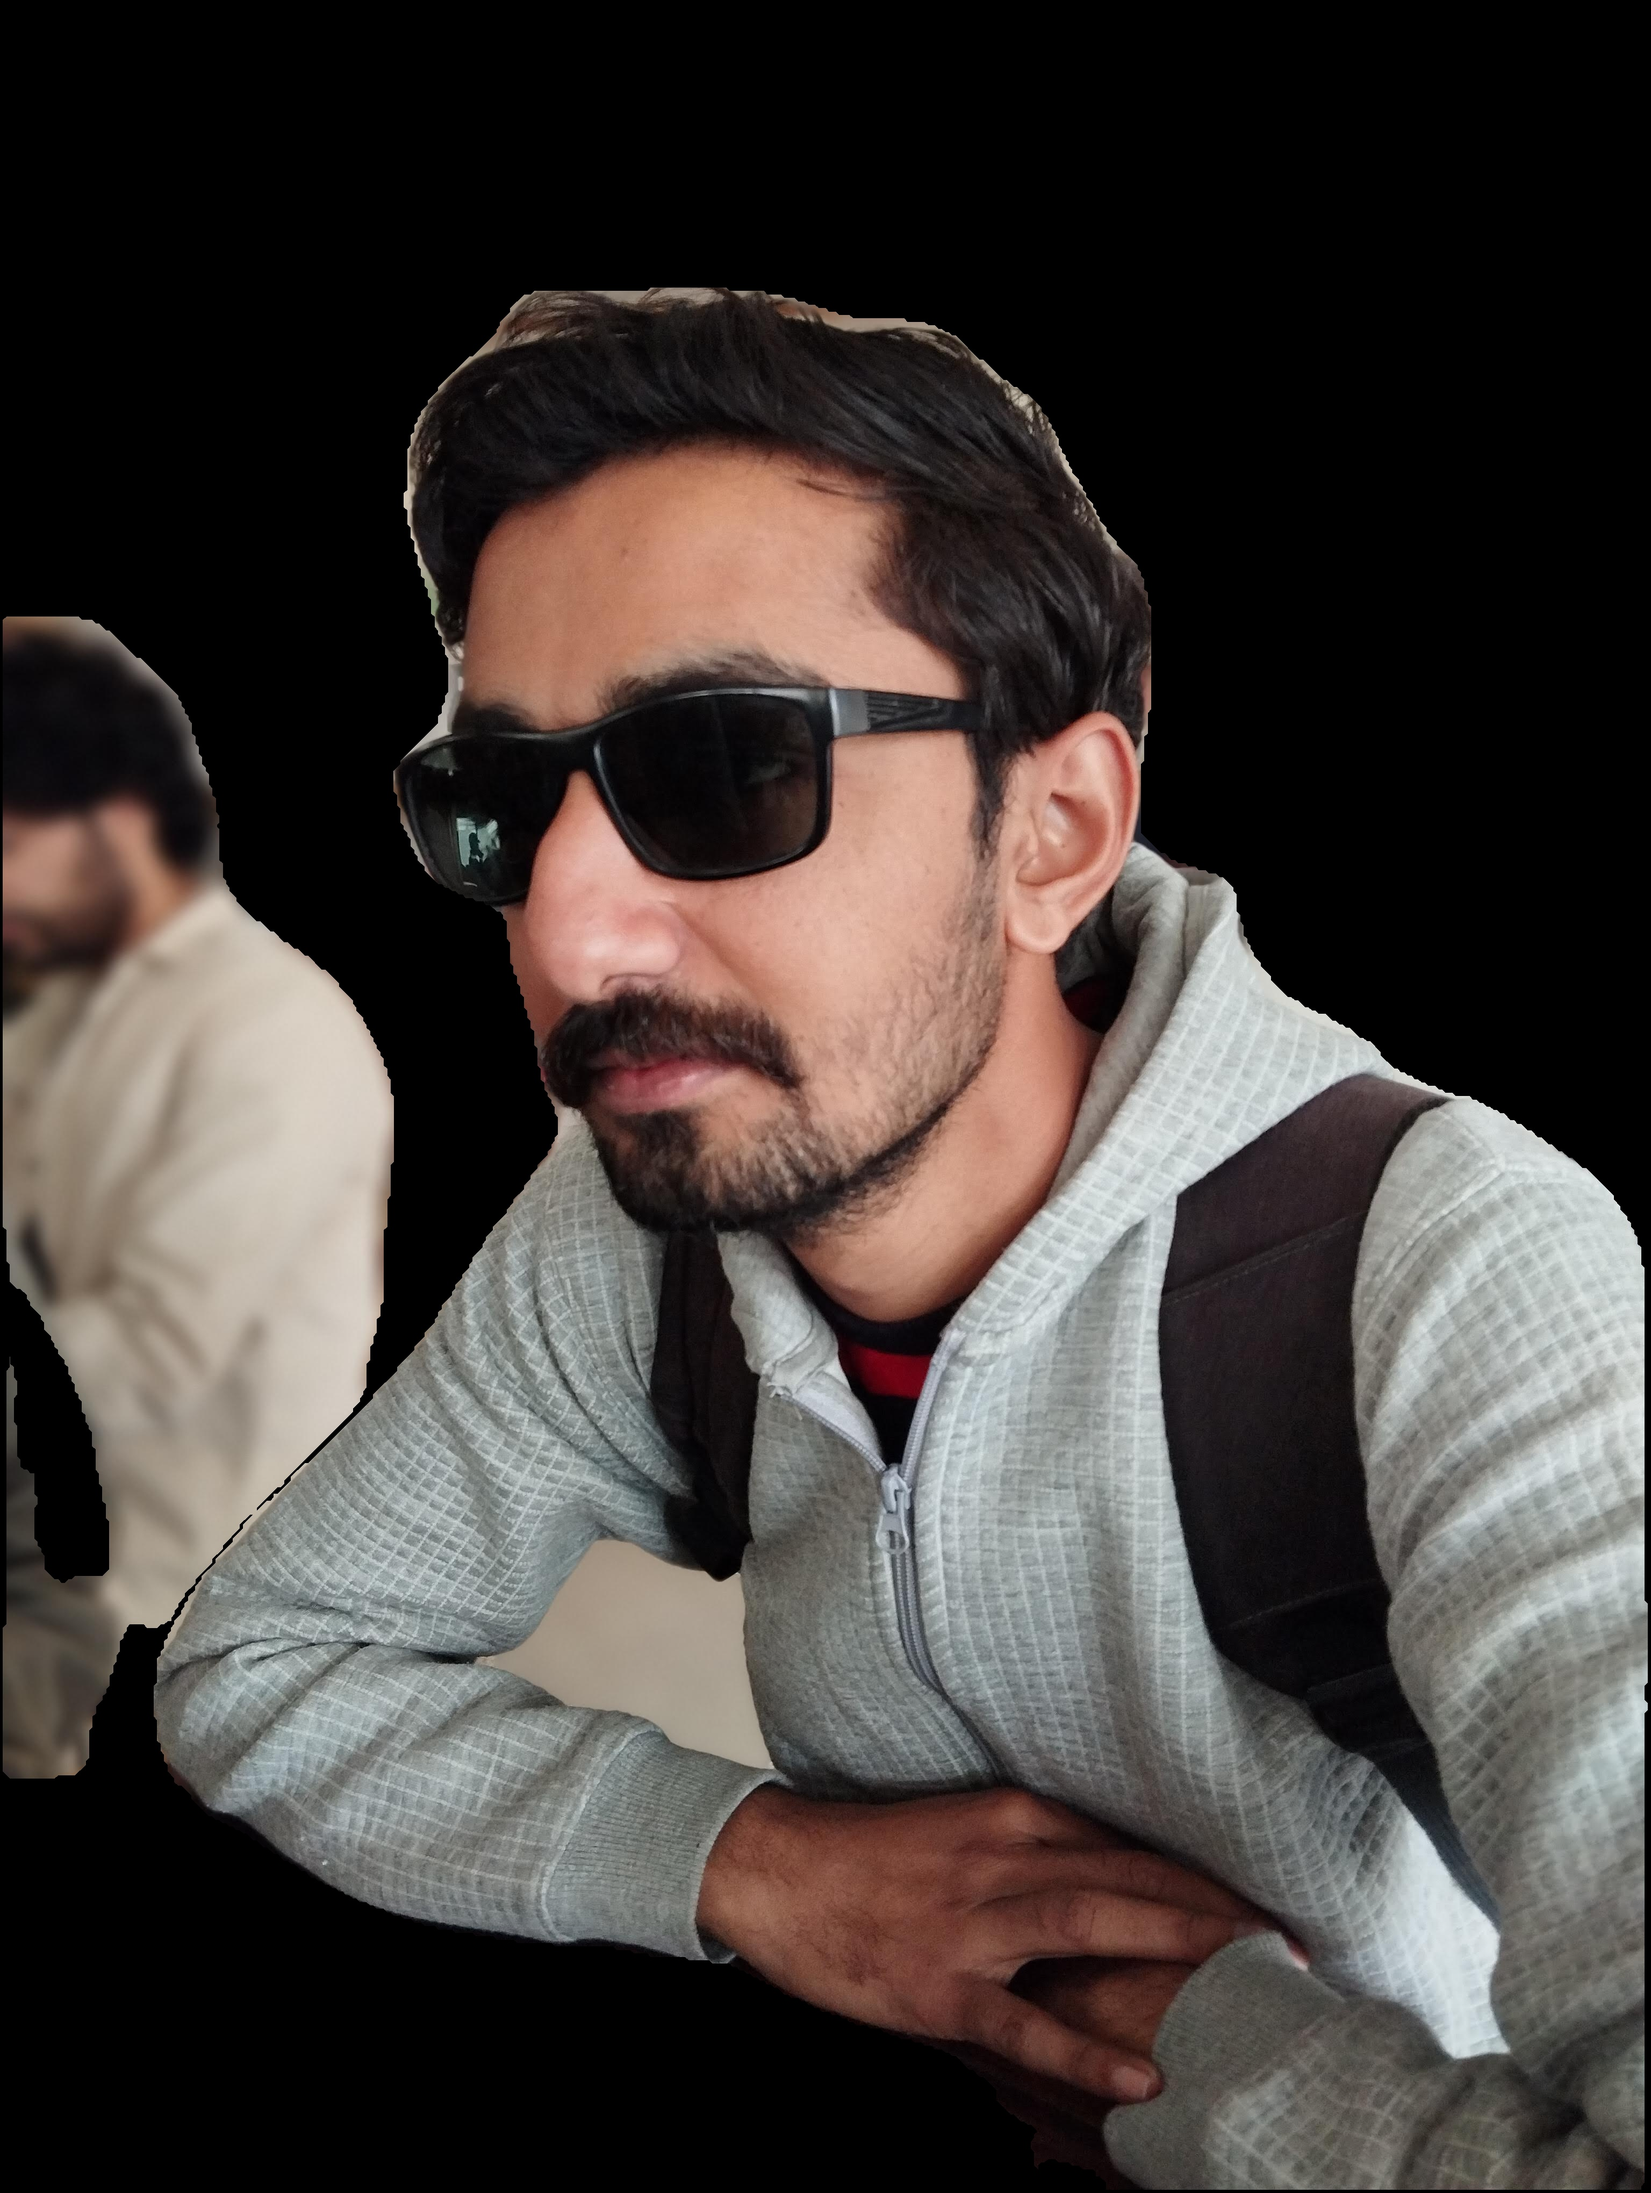
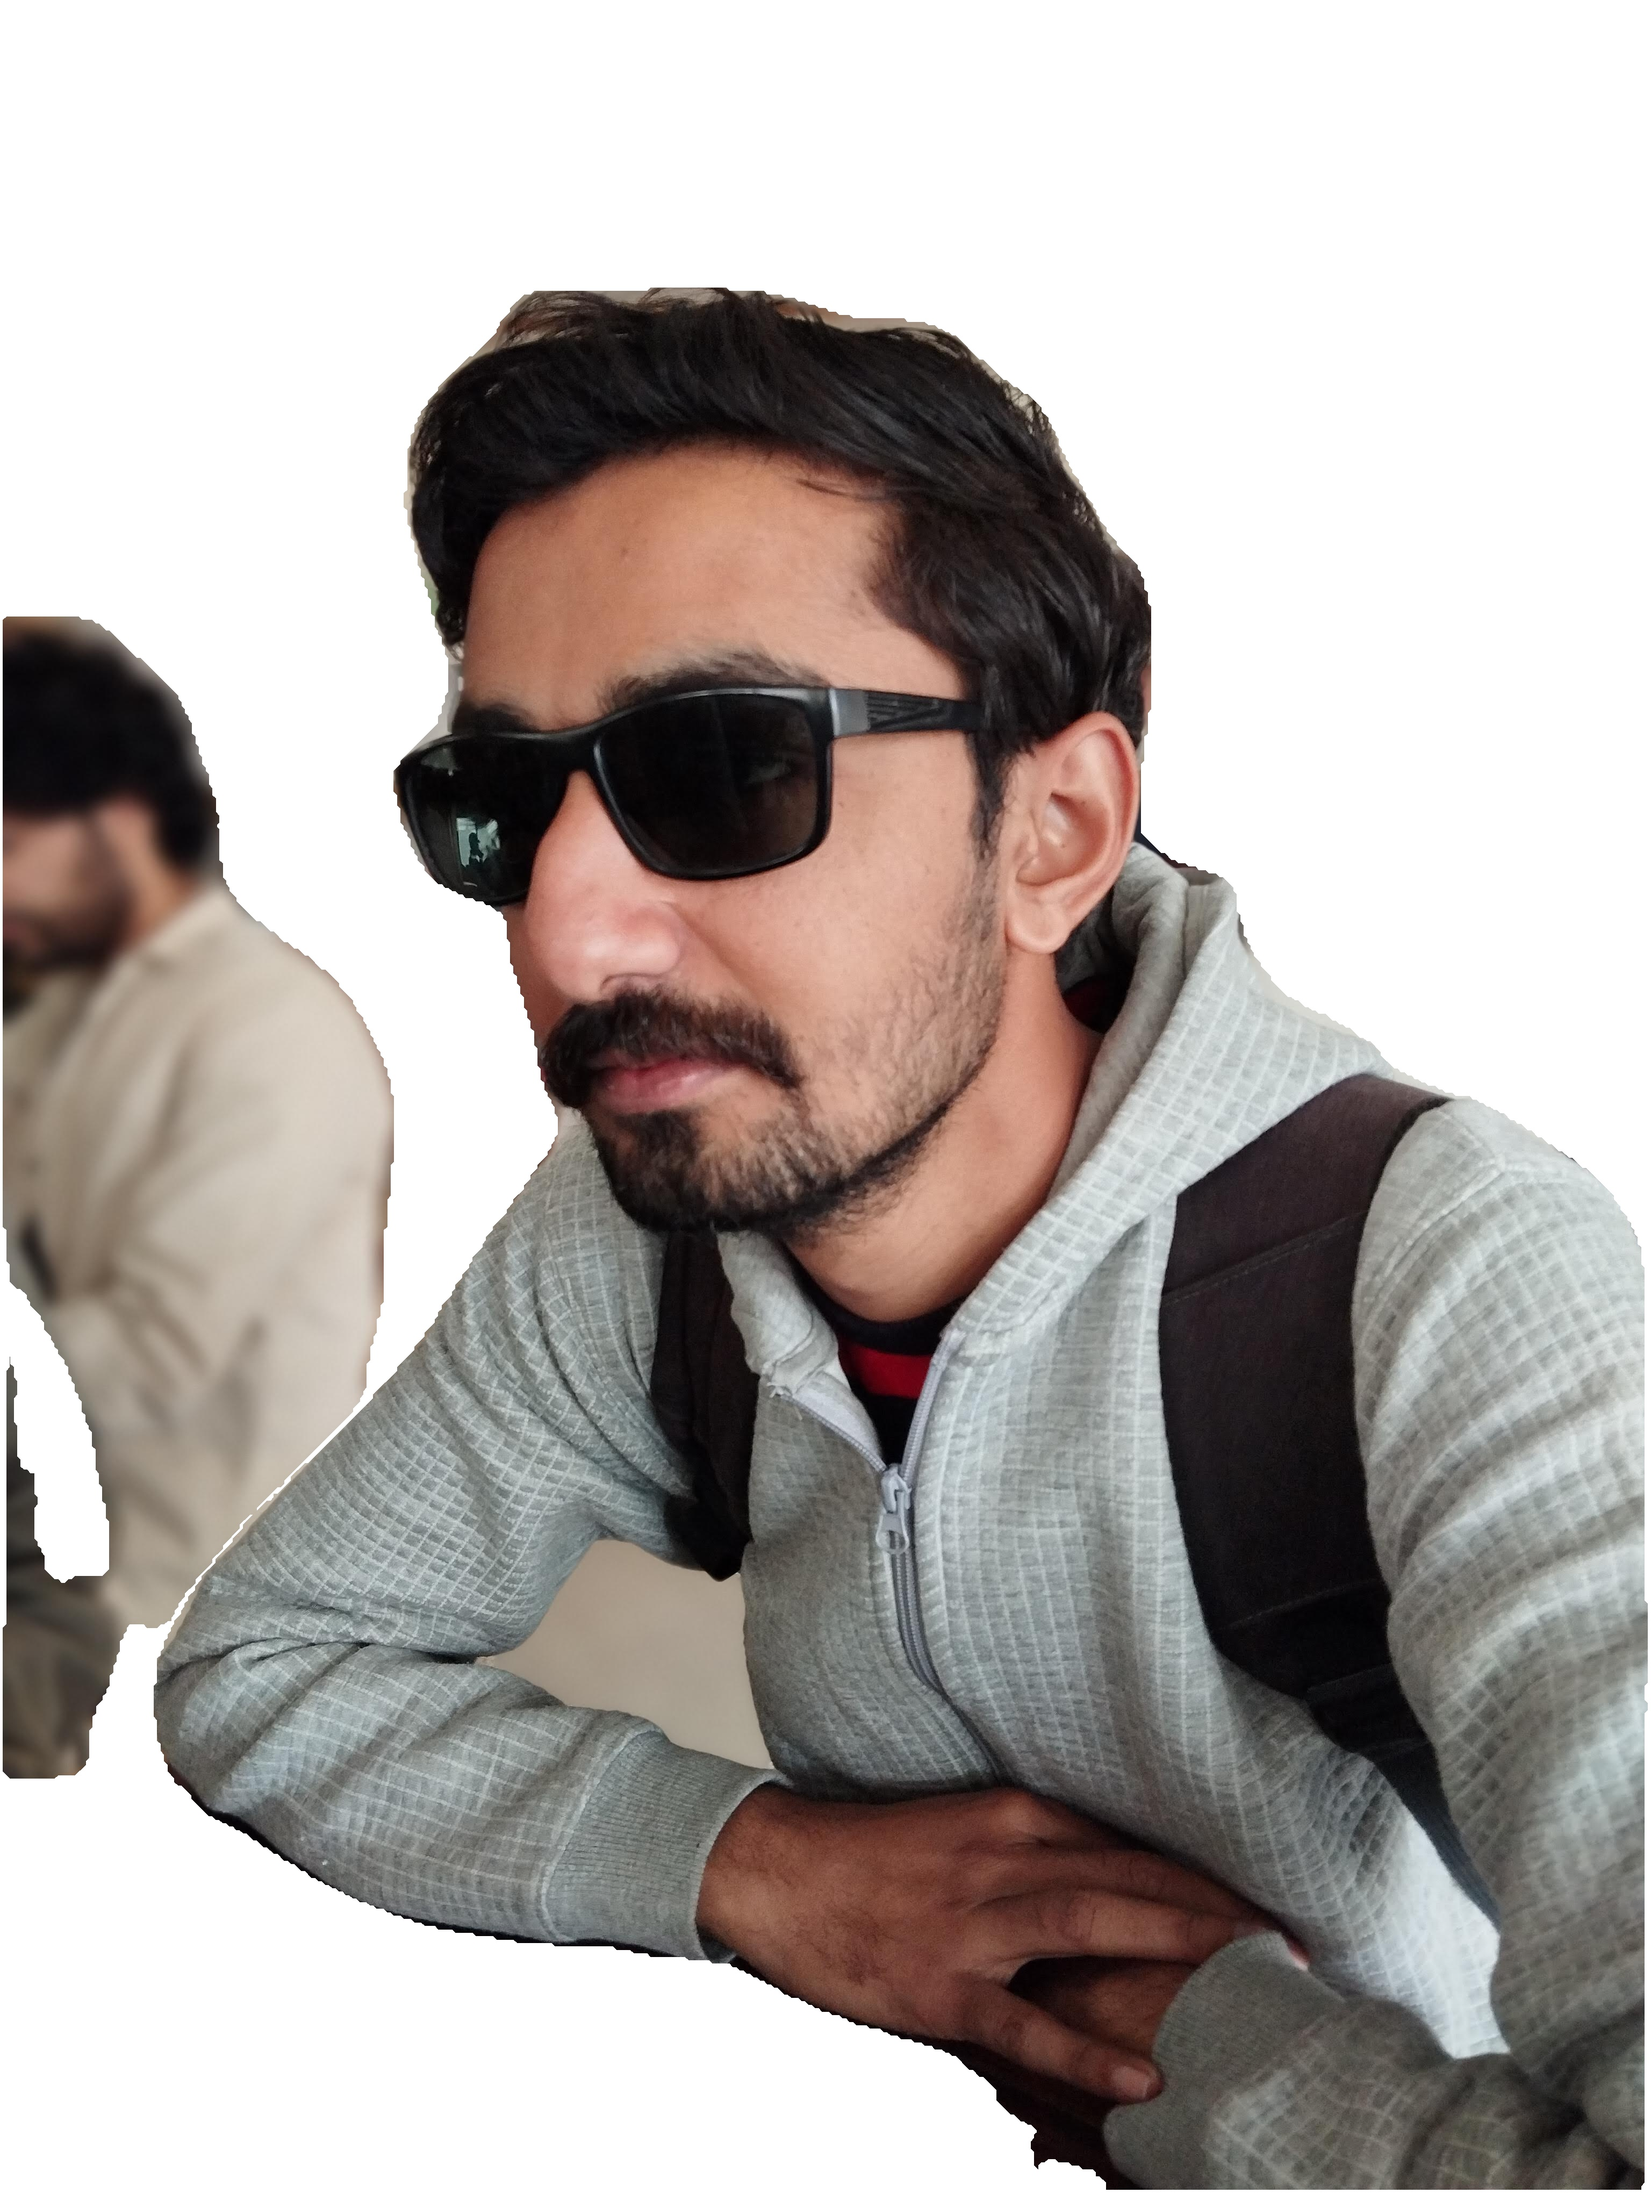
make background white

diff --git a/removebg_server/bgremove/obj_yolo.py b/removebg_server/bgremove/obj_yolo.py
@@ -1,46 +1,99 @@
-from ultralytics import YOLO
+# from ultralytics import YOLO
+# import cv2
+# import numpy as np
+
+
+# class BackgroundRemoval:
+#     def __init__(self):
+#         pass
+#     # Function to perform post-processing on the binary mask
+#     def post_process_mask(self, binary_mask):
+#         # Perform morphological closing to fill small holes in the mask
+#         kernel = np.ones((5, 5), np.uint8)
+#         binary_mask = cv2.morphologyEx(binary_mask, cv2.MORPH_CLOSE, kernel)
+#         return binary_mask
+
+#     def remove_background(self):
+
+#         model = YOLO('yolov8n-seg.pt')  # Use yolov8n-seg.pt for segmentation models
+
+#         results = model.predict(source='bgremove/dataset')
+#         for result in results:
+#             # Create a dictionary to store masks for each class
+#             class_masks = {}
+#             for detection in result:
+#                 class_name = detection.names[detection.boxes.cls.tolist().pop()]
+#                 # Create a binary mask from detection
+#                 binary_mask = np.zeros(result.orig_img.shape[:2], np.uint8)
+#                 contour = detection.masks.xy.pop().astype(np.int32).reshape(-1, 1, 2)
+#                 cv2.drawContours(binary_mask, [contour], -1, (255, 255, 255), cv2.FILLED)
+#                 # Perform post-processing on the mask
+#                 binary_mask = self.post_process_mask(binary_mask)
+#                 # Add the mask to the dictionary for the corresponding class
+#                 if class_name not in class_masks:
+#                     class_masks[class_name] = binary_mask
+#                 else:
+#                     class_masks[class_name] += binary_mask
+
+#             masked_image = cv2.bitwise_and(result.orig_img, result.orig_img, mask=class_masks['person'])
+#             cv2.imwrite(f'bgremove/output/result.jpg', masked_image)
+#             # Loop through the class masks and isolate objects
+#             # for class_name, binary_mask in class_masks.items():
+#             #     # Save the mask
+#             #     # mask_filename = f'{class_name}_mask.jpg'
+#             #     # cv2.imwrite(mask_filename, binary_mask)
+#             #     # Isolate object with black background
+#             #     masked_image = cv2.bitwise_and(result.orig_img, result.orig_img, mask=binary_mask)
+#             #     cv2.imwrite(f'bgremove/output/{class_name}nobg.jpg', masked_image)
+
+
 import cv2
 import numpy as np
+from ultralytics import YOLO
 
 
 class BackgroundRemoval:
-    def __init__(self):
-        pass
-    # Function to perform post-processing on the binary mask
-    def post_process_mask(self, binary_mask):
+    @staticmethod
+    def post_process_mask(binary_mask):
         # Perform morphological closing to fill small holes in the mask
         kernel = np.ones((5, 5), np.uint8)
         binary_mask = cv2.morphologyEx(binary_mask, cv2.MORPH_CLOSE, kernel)
         return binary_mask
 
-    def remove_background(self):
-        model = YOLO('yolov8n-seg.pt')  # Use yolov8n-seg.pt for segmentation models
+    @staticmethod
+    def remove_background():
+        # Use yolov8n-seg.pt for segmentation models
+        model = YOLO('yolov8n-seg.pt')
 
         results = model.predict(source='bgremove/dataset')
         for result in results:
-            # Create a dictionary to store masks for each class
             class_masks = {}
             for detection in result:
-                class_name = detection.names[detection.boxes.cls.tolist().pop()]
-                # Create a binary mask from detection
+                class_name = detection.names[detection.boxes.cls.tolist(
+                ).pop()]
                 binary_mask = np.zeros(result.orig_img.shape[:2], np.uint8)
                 contour = detection.masks.xy.pop().astype(np.int32).reshape(-1, 1, 2)
-                cv2.drawContours(binary_mask, [contour], -1, (255, 255, 255), cv2.FILLED)
-                # Perform post-processing on the mask
-                binary_mask = self.post_process_mask(binary_mask)
-                # Add the mask to the dictionary for the corresponding class
+                cv2.drawContours(
+                    binary_mask, [contour], -1, (255, 255, 255), cv2.FILLED)
+                binary_mask = BackgroundRemoval.post_process_mask(binary_mask)
                 if class_name not in class_masks:
                     class_masks[class_name] = binary_mask
                 else:
                     class_masks[class_name] += binary_mask
 
-            masked_image = cv2.bitwise_and(result.orig_img, result.orig_img, mask=class_masks['person'])
-            cv2.imwrite(f'bgremove/output/result.jpg', masked_image)
-            # Loop through the class masks and isolate objects
-            # for class_name, binary_mask in class_masks.items():
-            #     # Save the mask
-            #     # mask_filename = f'{class_name}_mask.jpg'
-            #     # cv2.imwrite(mask_filename, binary_mask)
-            #     # Isolate object with black background
-            #     masked_image = cv2.bitwise_and(result.orig_img, result.orig_img, mask=binary_mask)
-            #     cv2.imwrite(f'bgremove/output/{class_name}nobg.jpg', masked_image)
+            # Invert the mask to make background black and object white
+            object_mask = 255 - class_masks['person']
+
+            # Create a transparent image with the object and transparent background
+            transparent_img = np.zeros_like(result.orig_img, np.uint8)
+            # Set transparent image to black
+            transparent_img[:] = (255, 255, 255)
+            transparent_img = cv2.bitwise_and(
+                transparent_img, transparent_img, mask=object_mask)
+
+            # Combine the transparent object with the original image
+            result_img = cv2.bitwise_and(
+                result.orig_img, result.orig_img, mask=class_masks['person'])
+            transparent_img += result_img
+            
+        cv2.imwrite(f'bgremove/output/result.jpg', transparent_img)
